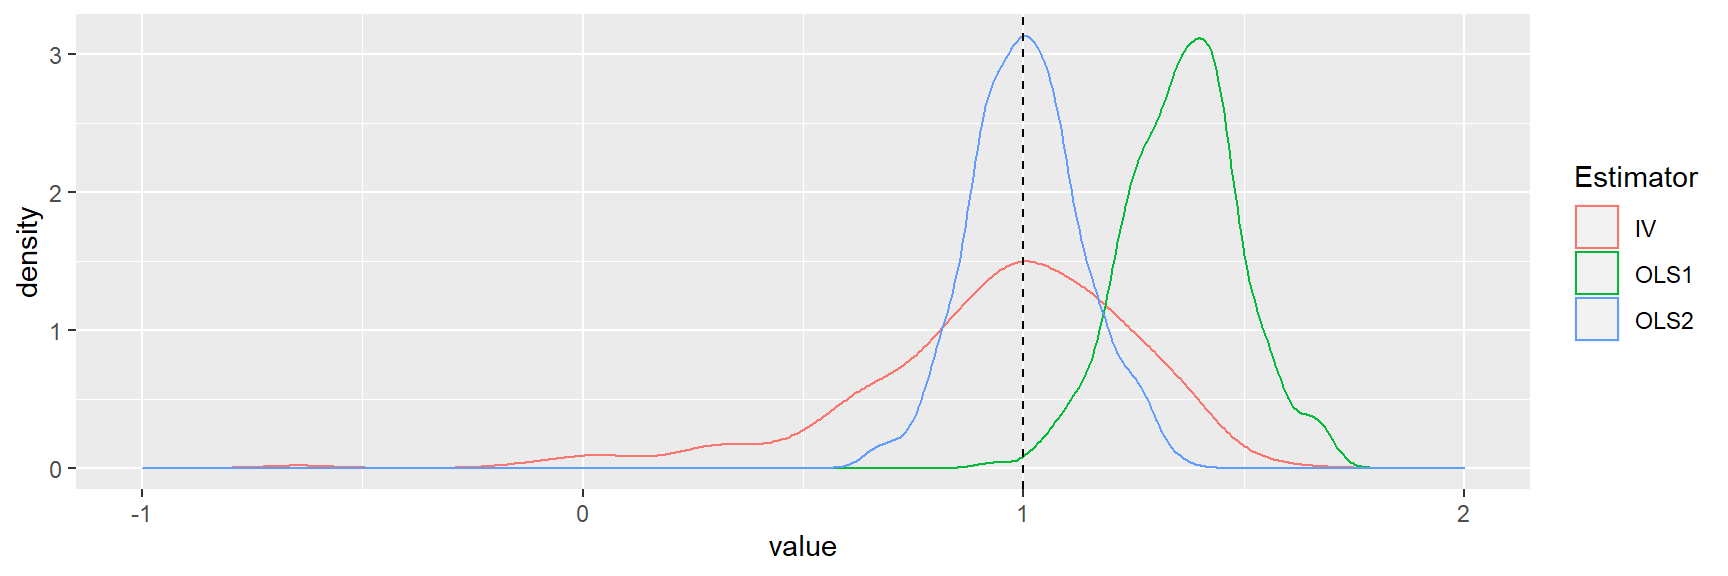
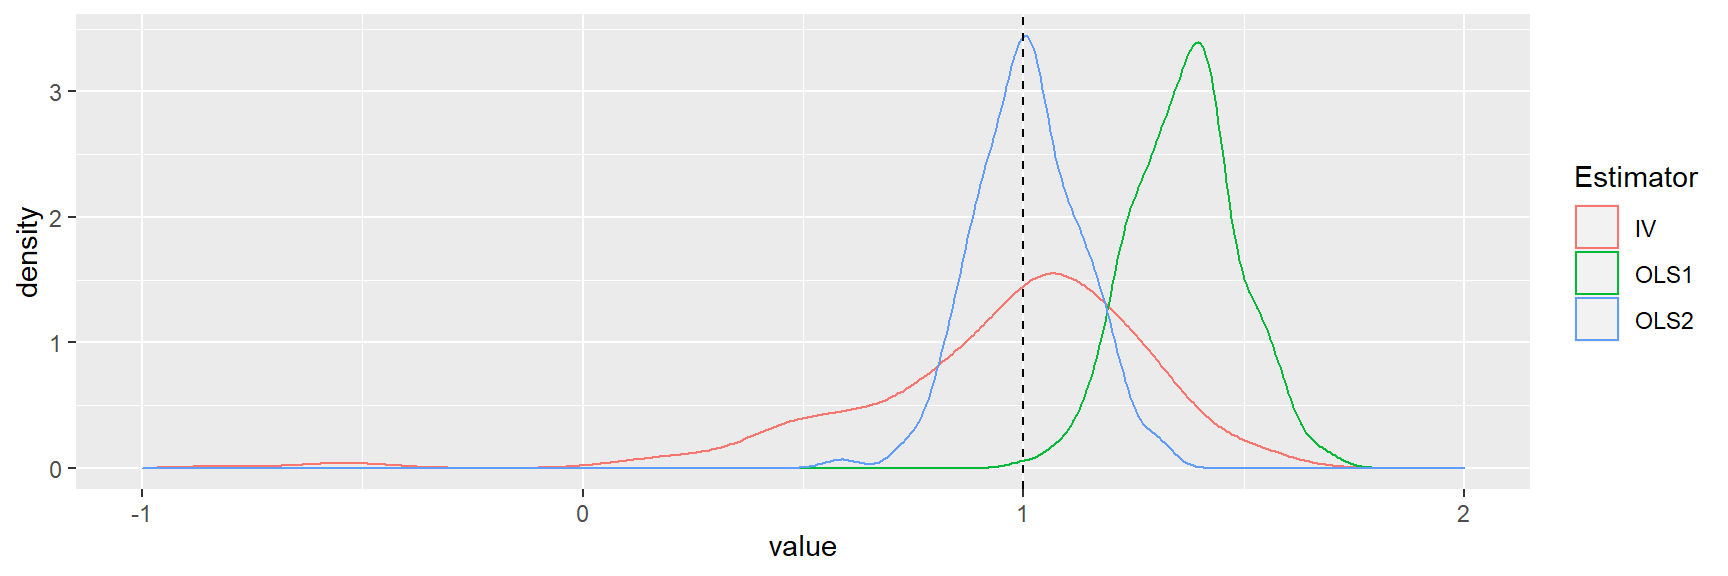
Projeto Integrador up

diff --git a/varinstrumentais.html b/varinstrumentais.html
@@ -419,6 +419,9 @@ div.tocify {
     <li>
       <a href="varinstrumentais.html">Variáveis Instrumentais e Inferência Causal</a>
     </li>
+    <li>
+      <a href="projetointegrador.html">PROJETO INTEGRADOR DE COMPETÊNCIAS EM CIÊNCIA DE DADOS I - 40h_Turma_05_102020</a>
+    </li>
   </ul>
 </li>
       </ul>
@@ -566,20 +569,20 @@ mod2OLS
 Constant
 </td>
 <td>
-0.714<sup>***</sup>
+1.132<sup>***</sup>
 </td>
 <td>
--0.076
+0.221
 </td>
 </tr>
 <tr>
 <td style="text-align:left">
 </td>
 <td>
-(0.251)
+(0.243)
 </td>
 <td>
-(0.179)
+(0.186)
 </td>
 </tr>
 <tr>
@@ -595,17 +598,17 @@ Constant
 X
 </td>
 <td>
-1.389<sup>***</sup>
+1.333<sup>***</sup>
 </td>
 <td>
-0.987<sup>***</sup>
+0.983<sup>***</sup>
 </td>
 </tr>
 <tr>
 <td style="text-align:left">
 </td>
 <td>
-(0.043)
+(0.042)
 </td>
 <td>
 (0.037)
@@ -626,7 +629,7 @@ U
 <td>
 </td>
 <td>
-1.048<sup>***</sup>
+0.954<sup>***</sup>
 </td>
 </tr>
 <tr>
@@ -635,7 +638,7 @@ U
 <td>
 </td>
 <td>
-(0.058)
+(0.059)
 </td>
 </tr>
 <tr>
@@ -666,10 +669,10 @@ Observations
 R<sup>2</sup>
 </td>
 <td>
-0.776
+0.773
 </td>
 <td>
-0.893
+0.879
 </td>
 </tr>
 <tr>
@@ -677,10 +680,10 @@ R<sup>2</sup>
 Adjusted R<sup>2</sup>
 </td>
 <td>
-0.775
+0.772
 </td>
 <td>
-0.893
+0.879
 </td>
 </tr>
 <tr>
@@ -688,10 +691,10 @@ Adjusted R<sup>2</sup>
 Residual Std. Error
 </td>
 <td>
-1.364 (df = 298)
+1.338 (df = 298)
 </td>
 <td>
-0.942 (df = 297)
+0.977 (df = 297)
 </td>
 </tr>
 <tr>
@@ -699,10 +702,10 @@ Residual Std. Error
 F Statistic
 </td>
 <td>
-1,030.410<sup>***</sup> (df = 1; 298)
+1,014.135<sup>***</sup> (df = 1; 298)
 </td>
 <td>
-1,242.227<sup>***</sup> (df = 2; 297)
+1,082.043<sup>***</sup> (df = 2; 297)
 </td>
 </tr>
 <tr>
@@ -767,14 +770,14 @@ ModIV
 Constant
 </td>
 <td>
-2.998<sup>***</sup>
+2.688<sup>***</sup>
 </td>
 </tr>
 <tr>
 <td style="text-align:left">
 </td>
 <td>
-(0.456)
+(0.417)
 </td>
 </tr>
 <tr>
@@ -788,14 +791,14 @@ Constant
 X
 </td>
 <td>
-0.973<sup>***</sup>
+1.051<sup>***</sup>
 </td>
 </tr>
 <tr>
 <td style="text-align:left">
 </td>
 <td>
-(0.081)
+(0.074)
 </td>
 </tr>
 <tr>
@@ -821,7 +824,7 @@ Observations
 R<sup>2</sup>
 </td>
 <td>
-0.706
+0.738
 </td>
 </tr>
 <tr>
@@ -829,7 +832,7 @@ R<sup>2</sup>
 Adjusted R<sup>2</sup>
 </td>
 <td>
-0.705
+0.737
 </td>
 </tr>
 <tr>
@@ -837,7 +840,7 @@ Adjusted R<sup>2</sup>
 Residual Std. Error
 </td>
 <td>
-1.561 (df = 298)
+1.437 (df = 298)
 </td>
 </tr>
 <tr>
@@ -893,6 +896,7 @@ geom_vline(xintercept = 1, lty = 2)
 <p>Agora usamos a função IV.</p>
 <pre class="r"><code>IVsamD(sample_size = 30,
 coef_Z = 1, viol = 0)</code></pre>
+<pre><code>## Warning: Removed 1 rows containing non-finite values (stat_density).</code></pre>
 <p><img src="varinstrumentais_files/figure-html/unnamed-chunk-8-1.png" width="864" /></p>
 <p>A distribuição de amostragem IV tem maior propagação, embora consistente</p>
 <div id="exercício-proposto" class="section level3">
